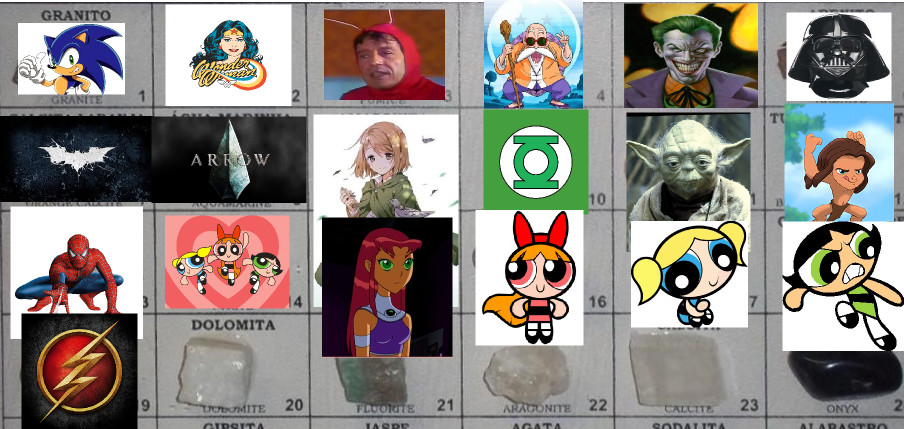
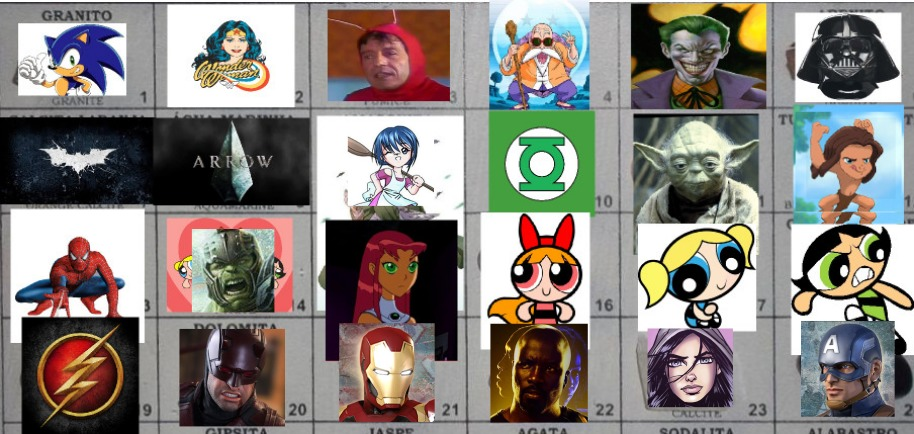
feat(index): locker and new heroes

diff --git a/src/server/models/code_store.py b/src/server/models/code_store.py
@@ -44,8 +44,8 @@ NAMES = "granito arenito" \
 SNAMES = "aries touro gemeos cancer leao virgem libra escorpiao ofiuco sargitario capricornio aquario peixes".split()
 CNAMES = "chiclete framboesa red_velvet laranja baunilha limao goji morango capuccino marshmallow chocomenta blue_sky" \
          " cereja pao_de_mel milho_verde erva_doce mirtilo uva nozes banana pistache tutifruti vinho cassis".split()
-HNAMES = "sonic mulher_maravilha chapolin mestre_kame coringa darth_vader batman arrow petra lanterna_verde yoda" \
-         " tarzan homem_aranha verinha stelar florzinha lindinha docinho flash".split()
+HNAMES = "sonic maravilha chapolin kame coringa vader batman arrow petra lanterna yoda" \
+         " tarzan aranha hulk stelar florzinha lindinha docinho flash daredevil ironman cage jessica america".split()
 FNAMES = "abacate abacaxi acerola ameixa amora bananas caju caqui carambola cerejas damasco framboesas goiaba" \
          " graviola jaboticaba jaca kiwi laranjas manga maracuja melancia mirtilos morangos pera pitanga" \
          " sapoti tangerina tomate umbu uvas".split()
